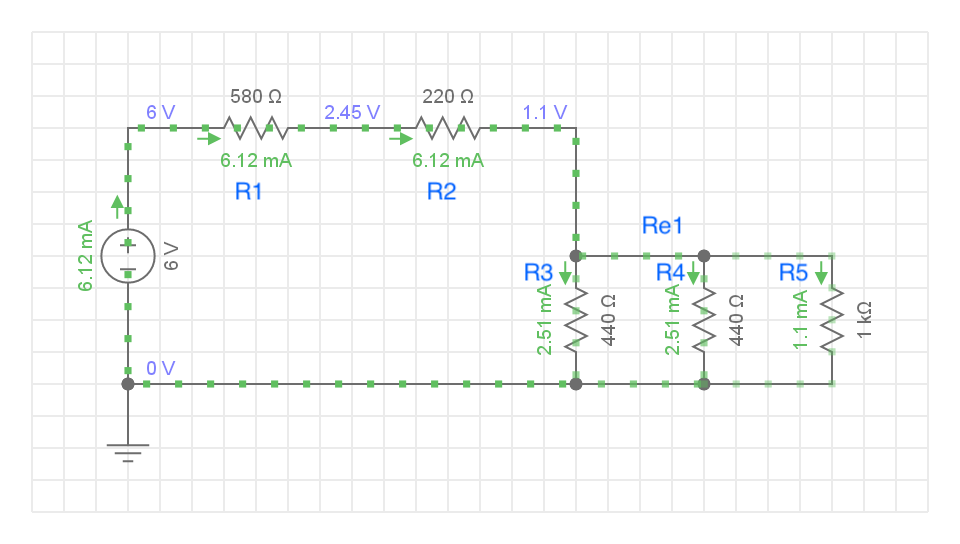
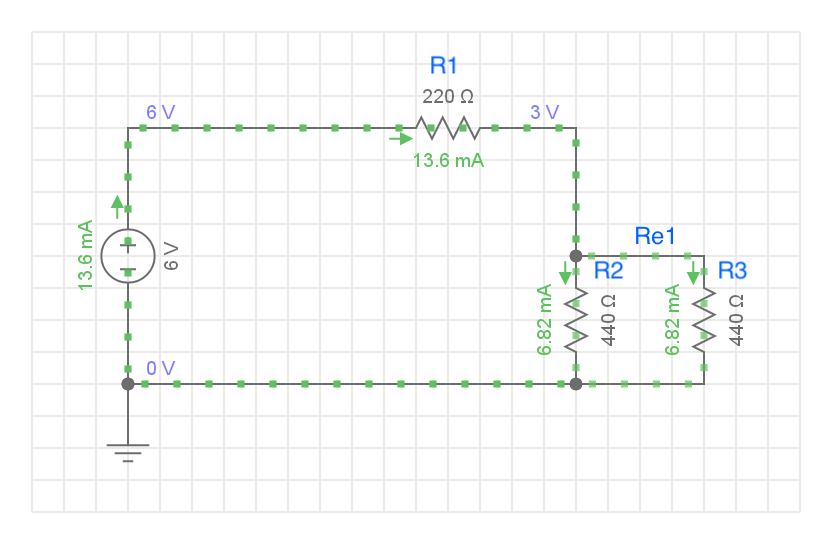
Ajout détails corrections

diff --git a/Module05_NotionsDelectricite/Module05_NotionsElectricite.md b/Module05_NotionsDelectricite/Module05_NotionsElectricite.md
@@ -17,7 +17,10 @@
 <details>
     <summary>Solution</summary>
 
-R = 440 &#8486; ; U1 = 220 * 13,43 = 3 V ; U2 = 220 * 13,43 = 3 V ; It = 6 / 440 = 13,6mA
+Rt = 220 + 220 = 440 &#8486;  
+U1 = 220 * 13,43 = 3 V  
+U2 = 220 * 13,43 = 3 V  
+It = 6 / 440 = 13,6 mA
 
 ![2 Resistances en Série - Solution](img/rs_220_220_solution.png)
 
@@ -38,7 +41,11 @@ R = 440 &#8486; ; U1 = 220 * 13,43 = 3 V ; U2 = 220 * 13,43 = 3 V ; It = 6 / 440
 <details>
     <summary>Solution</summary>
 
-R = 1320 &#8486; ; U1 = 4,6 * 220 = 1 V ; U2 = 4,6 * 440 = 2 V ; U3 = 4,6 * 660 = 3V ; It = 6 / 1320 = 4,6 mA
+Rt = 220 + 440 + 660 = 1320 &#8486;  
+U1 = 4,6 * 220 = 1 V  
+U2 = 4,6 * 440 = 2 V  
+U3 = 4,6 * 660 = 3 V  
+It = 6 / 1320 = 4,6 mA
 
 ![3 Résistances en Série - Solution](img/rs_220_440_660_solution.png)
 
@@ -50,7 +57,7 @@ R = 1320 &#8486; ; U1 = 4,6 * 220 = 1 V ; U2 = 4,6 * 440 = 2 V ; U3 = 4,6 * 660 
 
 ## Exercice 2 - Résistances en parallèle
 
-### Étape 1 - 3 Résistances en parallèle
+### Exercice 2.1 - 3 Résistances en parallèle
 
 ![3 Résistances en parallèle](img/rp_220_220_220.png)
 
@@ -65,13 +72,16 @@ R = 1320 &#8486; ; U1 = 4,6 * 220 = 1 V ; U2 = 4,6 * 440 = 2 V ; U3 = 4,6 * 660 
 <details>
     <summary>Solution</summary>
 
-R = 73,3 &#8486; ; U1 = 6 V ; U2 = 6 V ; U3 = 6V ; It = 6 / 73,3 = 81,9 mA ; I1 = I2 = I3 = 27,3 mA
+1 / Rt = 1 / 220 + 1 / 220 + 1 / 220 = 3 / 220 => Rt = 73,3 &#8486;  
+U1 = U2 = U3 = 6 V  
+It = 6 / 73,3 = 81,9 mA  
+I1 = I2 = I3 = 27,3 mA  
 
 ![3 Résistances en parallèle - Solution](img/rp_220_220_220_solution.png)
 
 </details>
 
-### Étape 2 - 3 Résistances en parallèle
+### Exercice 2.2 - 3 Résistances en parallèle
 
 ![3 Resistances en parallèle](img/rp_220_220_440.png)
 
@@ -86,15 +96,20 @@ R = 73,3 &#8486; ; U1 = 6 V ; U2 = 6 V ; U3 = 6V ; It = 6 / 73,3 = 81,9 mA ; I1 
 <details>
     <summary>Solution</summary>
 
-R = 88 &#8486; ; U1 = 6 V ; U2 = 6 V ; U3 = 6V ; It = 6 / 88 = 68,2 mA ; I1 = 27,3 mA ; I2 = 27,3 mA ; I3 = 13,6 mA
+1 / Rt = 1 / 220 + 1 / 220 + 1 / 440 = 5 / 440 => Rt = 88 &#8486;  
+U1 = U2 = U3 = 6 V  
+It = 6 / 88 = 68,2 mA  
+I1 = 27,3 mA  
+I2 = 27,3 mA  
+I3 = 13,6 mA
 
 ![3 Résistances en parallèle - Solution](img/rp_220_220_440_solution.png)
 
 </details>
 
-## Exercice 3 - Circuits combinés
+## Exercice 3 - Circuits combinés (Optionnel)
 
-### Étape 1 - 3 Résistances
+### Exercice 3.1 - 3 Résistances
 
 ![Circuit combiné 2 3](img/rs_220_rp_440_440.png)
 
@@ -105,7 +120,7 @@ R = 88 &#8486; ; U1 = 6 V ; U2 = 6 V ; U3 = 6V ; It = 6 / 88 = 68,2 mA ; I1 = 27
 - Effectuez le calcul de la résistance équivalente totale Ret pour le circuit complet
 
 <details>
-    <summary>indices</summary>
+    <summary>Indices 1 / 2</summary>
 
 1. Effectuez le calcul de la résistance équivalente en parallèle Rep pour les 2 résistances en parallèle
 
@@ -119,7 +134,7 @@ R = 88 &#8486; ; U1 = 6 V ; U2 = 6 V ; U3 = 6V ; It = 6 / 88 = 68,2 mA ; I1 = 27
 - Calculez la tension aux bornes des résistances de 440 Ω en parallèle
 
 <details>
-    <summary>indices</summary>
+    <summary>Indices 2 / 2</summary>
 
 1. la tension aux bornes de résistances en parallèle est la même. La tension peut être déduite de la tension totale et de la tension U aux bornes de la résistance de 220 Ω
 
@@ -131,7 +146,22 @@ R = 88 &#8486; ; U1 = 6 V ; U2 = 6 V ; U3 = 6V ; It = 6 / 88 = 68,2 mA ; I1 = 27
 
 </details>
 
-### Étape 2 - 5 Résistances (optionnel)
+<details>
+    <summary>Solution</summary>
+
+1 / Re1 = 1 / 440 + 1 / 440 = 1 / 220 => Re1 = 220 &#8486;  
+Rt = 440 &#8486;  
+It = 6 / 440 = 13,6 mA  
+U1 = 220 * 0.0136 = 3V  
+U2 = U3 = 220 * 0.0136 = 3V  
+I2 = 3 / 440 = 6,8 mA   
+I3 = 3 / 440 = 6,8 mA
+
+![Solution Circuit combiné 2 3](img/rs_220_rp_440_440_Solution.png)
+
+</details>
+
+### Exercice 3.2 - 5 Résistances
 
 ![Indice Circuit combiné 2 3](img/rs_580_220_rp_440_440_1K.png)
 
@@ -146,9 +176,16 @@ R = 88 &#8486; ; U1 = 6 V ; U2 = 6 V ; U3 = 6V ; It = 6 / 88 = 68,2 mA ; I1 = 27
 <details>
     <summary>Solution</summary>
 
-Re1 = 180.33 &#8486; ; Rt = 580 + 220 + 180.33 = 980.33 ; It = 6 / 980.33 = 6.1 mA; U1 = 580 * 0.0061 = 3,54 V ; U2 = 220 * 0.0061 = 1.34 V V ; Ue1 = U3 = U4 = U5 = 180.33 * 0.0061 = 1.1 V; I3 = I4 = 1.1 / 440 = 2.5mA ; I5 = 1.1/1000 = 1.1 mA 
+Re1 = 180.33 &#8486;  
+Rt = 580 + 220 + 180.33 = 980.33  
+It = 6 / 980.33 = 6.1 mA  
+U1 = 580 * 0.0061 = 3,54 V  
+U2 = 220 * 0.0061 = 1.34 V V  
+Ue1 = U3 = U4 = U5 = 180.33 * 0.0061 = 1.1 V  
+I3 = I4 = 1.1 / 440 = 2.5mA  
+I5 = 1.1/1000 = 1.1 mA 
 
-![Circuit combiné 2 3](img/rs_220_rp_440_440_solution.png)
+![Circuit combiné 2 3](img/rs_580_220_rp_440_440_1K_solution.png)
 
 </details>
 
@@ -195,6 +232,13 @@ Re1 = 180.33 &#8486; ; Rt = 580 + 220 + 180.33 = 980.33 ; It = 6 / 980.33 = 6.1 
 - Placez  l'ampèremètre dans  voltmètre sur chacune des résistances.
 - La tension mesurée devrait correspondre aux valeurs que vous avez calculées dans les exercices précédents, sinon revoir vos calculs.
 
+<details>
+    <summary>Solution</summary>
+
+![3 résistances en parallèle sous Tinkercad](img/rp_220_220_220_tinkercad_solution.png)
+
+</details>
+
 ## Exercice 5 - Courbe de tension d'une del
 
 ### Objectifs
@@ -234,10 +278,10 @@ Dans cet exercice, vous pourrez tracer la courbe de la fiche technique d'une del
 
 - Avec une résistance de charge de 440 Ω :
 
-1. La tension de seuil change-t-elle?
-2. La tension de claquage change-t-elle?
+1. La tension de seuil change-t-elle ?
+2. La tension de claquage change-t-elle ?
 
-- Avec une résistance de charge  de 440 Ω la tension de seuil change-t-elle?
+- Avec une résistance de charge  de 440 Ω la tension de seuil change-t-elle ?
 
 <details>
     <summary>Solution</summary>
